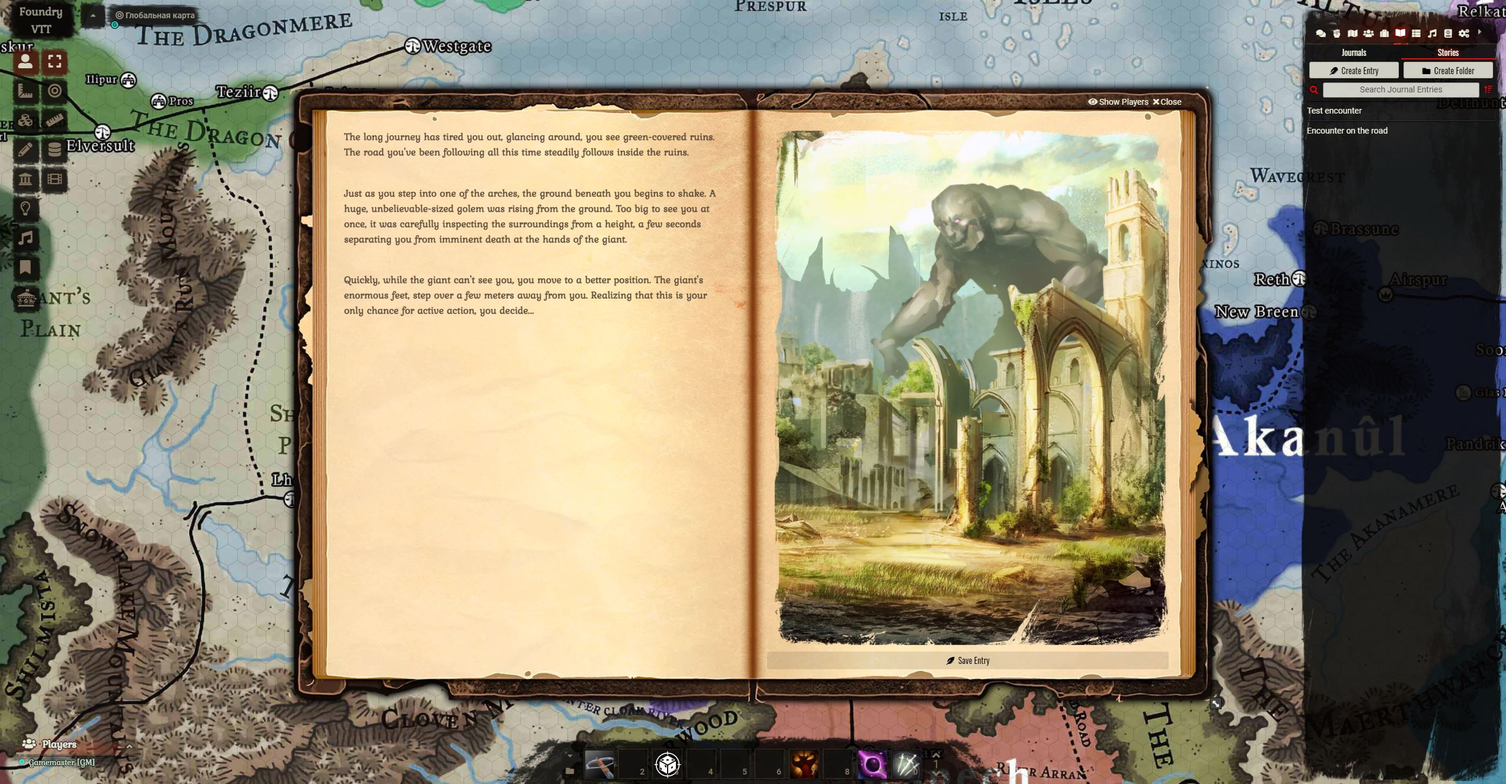
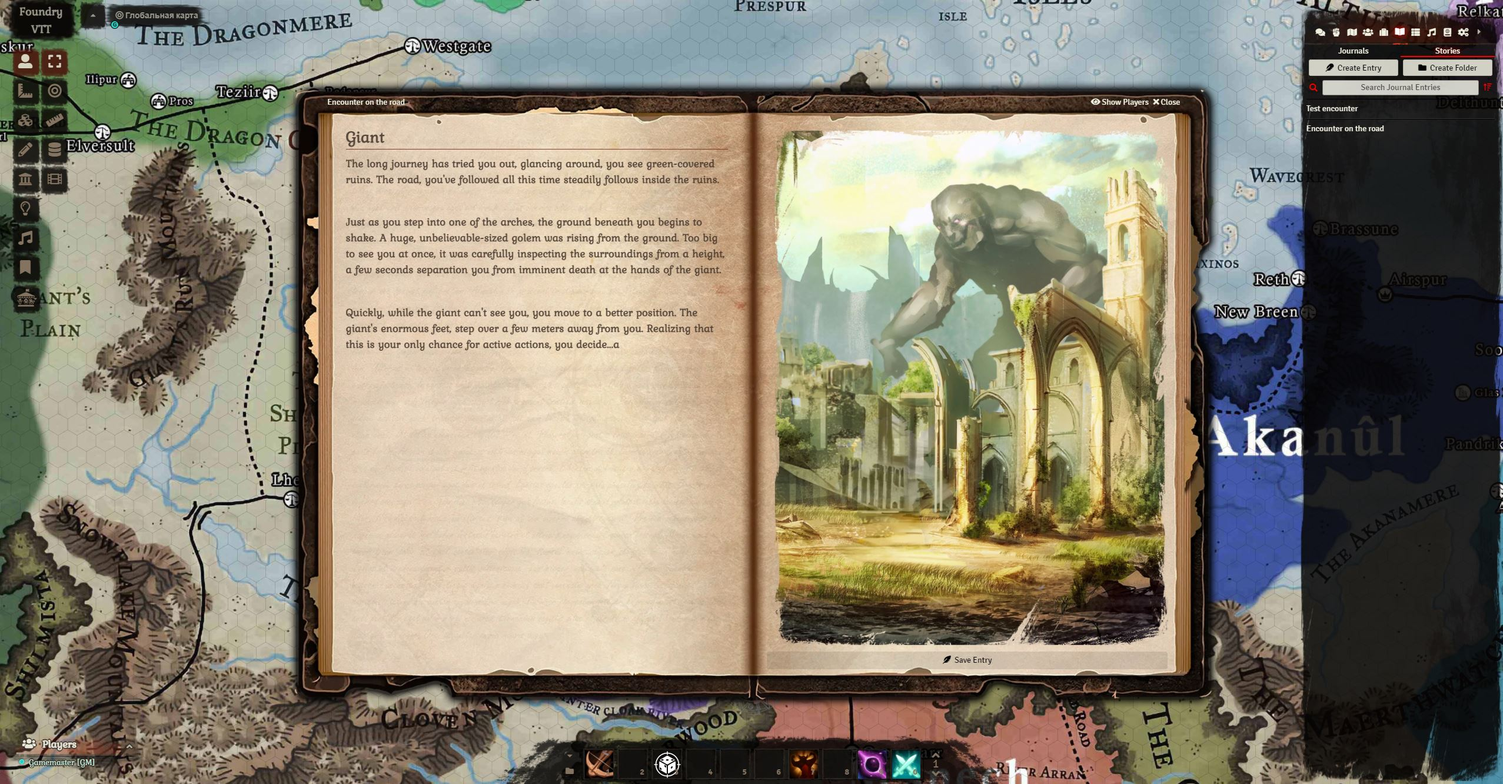
Preview update

diff --git a/css/storyteller.css b/css/storyteller.css
@@ -71,7 +71,7 @@ nav.storyteller-nav.tabs {
 }
 
 .page.left > .page-inner {
-    padding: 1% 6% 6% 4.25%;
+    padding: 1% 6% 6% 6.25%;
 
     height: 100%;
 }
